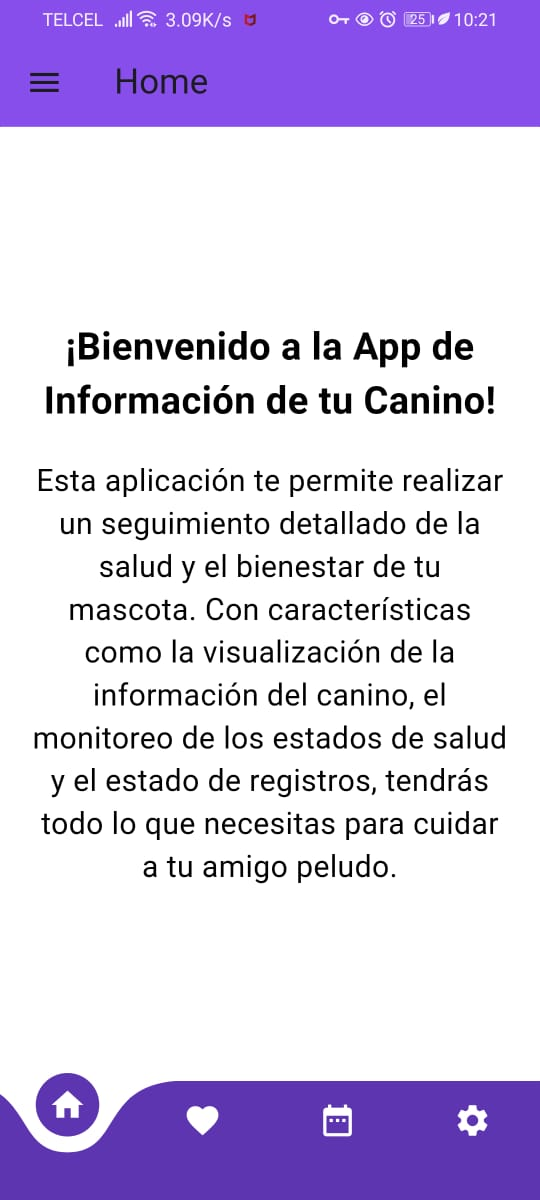
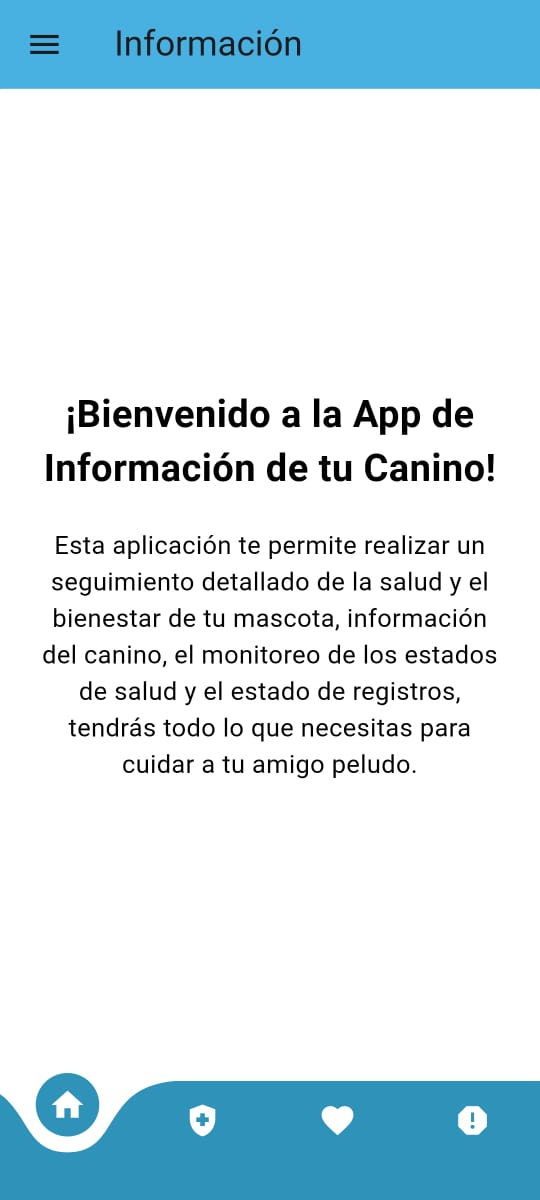
changes pictures in the archive movil

diff --git a/core/templates/core/movil.html b/core/templates/core/movil.html
@@ -35,6 +35,9 @@
                     <li data-target="#carouselExampleIndicators" data-slide-to="2"></li>
                     <li data-target="#carouselExampleIndicators" data-slide-to="3"></li>
                     <li data-target="#carouselExampleIndicators" data-slide-to="4"></li>
+                    <li data-target="#carouselExampleIndicators" data-slide-to="5"></li>
+                    <li data-target="#carouselExampleIndicators" data-slide-to="6"></li>
+                    <li data-target="#carouselExampleIndicators" data-slide-to="7"></li>
                     <!-- <li data-target="#carouselExampleIndicators" data-slide-to="5"></li>
                     <li data-target="#carouselExampleIndicators" data-slide-to="6"></li>
                     <li data-target="#carouselExampleIndicators" data-slide-to="7"></li> -->
@@ -43,7 +46,7 @@
                 <div class="carousel-inner">
                     <div class="carousel-item active">
                         <div class="img-container">
-                            <img src="{% static 'img/inicio.jpg' %}" class="d-block mx-auto" alt="img1" style="height: 650px;">
+                            <img src="{% static 'img/1_movil.jpg' %}" class="d-block mx-auto" alt="img1" style="height: 650px;">
                         </div>
                     </div>
                     <div class="carousel-item">
@@ -64,6 +67,21 @@
                     <div class="carousel-item">
                         <div class="img-container">
                             <img src="{% static 'img/5_movil.jpg' %}" class="d-block mx-auto" alt="img5" style="height: 650px;">
+                        </div>
+                    </div>
+                    <div class="carousel-item">
+                        <div class="img-container">
+                            <img src="{% static 'img/6_movil.jpg' %}" class="d-block mx-auto" alt="img5" style="height: 650px;">
+                        </div>
+                    </div>
+                    <div class="carousel-item">
+                        <div class="img-container">
+                            <img src="{% static 'img/7_movil.jpg' %}" class="d-block mx-auto" alt="img5" style="height: 650px;">
+                        </div>
+                    </div>
+                    <div class="carousel-item">
+                        <div class="img-container">
+                            <img src="{% static 'img/8_movil.jpg' %}" class="d-block mx-auto" alt="img5" style="height: 650px;">
                         </div>
                     </div>
                     <!-- Imagenes Futuras -->
